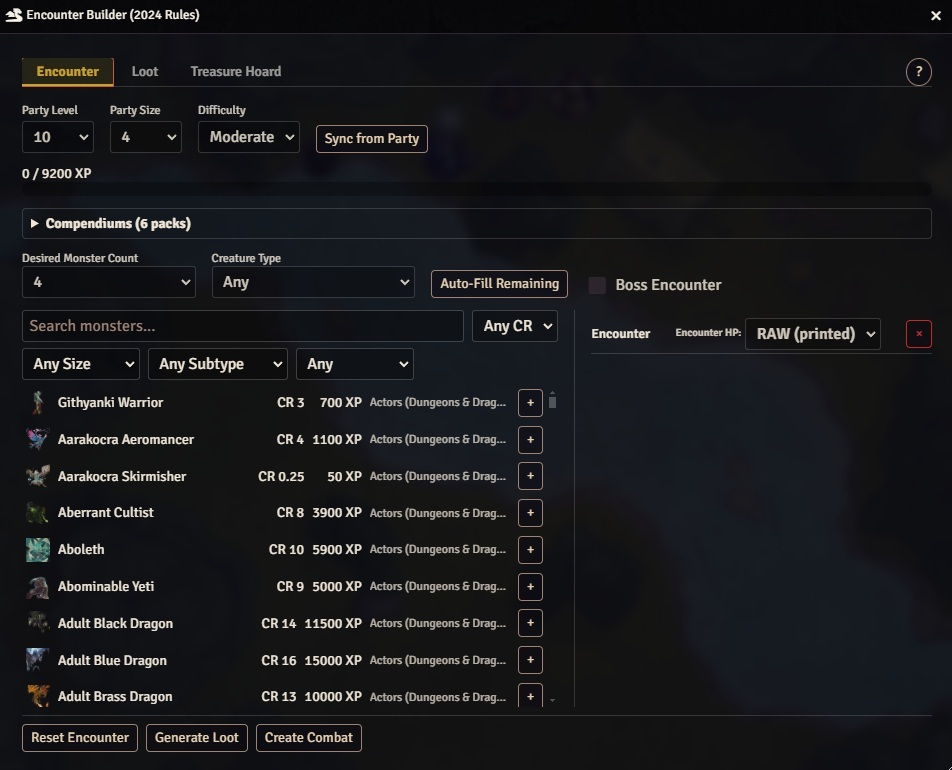
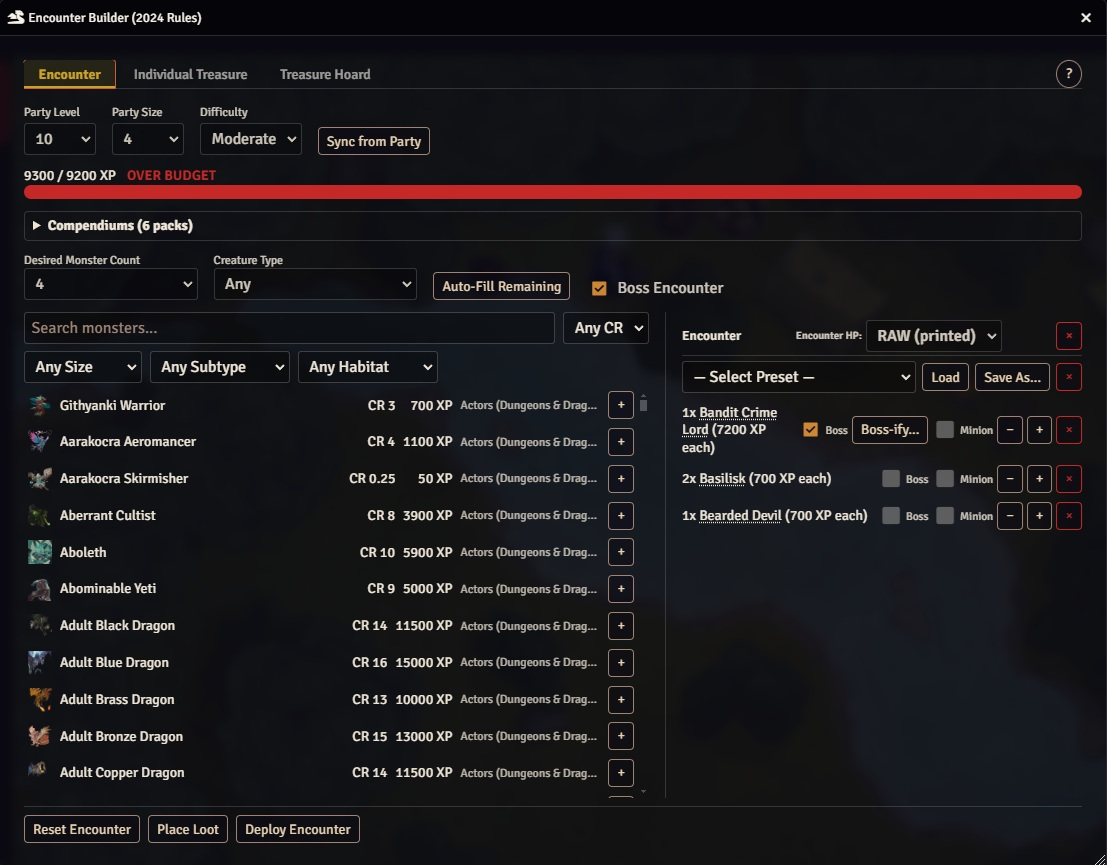
Bump version to 0.3.6, refresh screenshots, document new features
New screenshots reflecting the current UI (Boss-ify, item type filter,
item Customize dialog). README and module.json description updated for
Encounter Presets, the loot item type filter, and Item Customize; screenshot
CDN links re-pinned to the v0.3.6 tag.

diff --git a/README.md b/README.md
@@ -11,7 +11,7 @@ with a fully editable preview before creating anything.
 
 **Encounter tab**
 
-<img width="952" height="770" alt="Encounter Builder" src="https://cdn.jsdelivr.net/gh/ElmiMage/encounter-builder-2024@v0.3.5/screenshots/encounter-tab.jpg" />
+<img width="1107" height="865" alt="Encounter Builder" src="https://cdn.jsdelivr.net/gh/ElmiMage/encounter-builder-2024@v0.3.6/screenshots/encounter-tab.jpg" />
 
 - XP budget per 2024 DMG rules (Low/Moderate/High, no group multipliers)
 - Browse monsters from ANY loaded Actor compendium (SRD + your own homebrew)
@@ -52,10 +52,15 @@ with a fully editable preview before creating anything.
 - Click-to-place token spiral formation on the canvas
 - Creates a real Combat encounter when you're happy with the picks
 - Compendium selection is remembered per-user across sessions
+- **Encounter Presets**: save the current Party Level/Size/Difficulty, the
+  full monster list (including per-monster Boss-ify/Minion settings), and
+  the current Treasure Hoard plan (if one's been rolled) as a named,
+  world-shared preset — Save As… / Load / Delete, right above the
+  encounter list
 
-**Loot tab — Individual Treasure**
+**Individual Treasure tab**
 
-<img width="952" height="774" alt="Encounter Builder Loot" src="https://cdn.jsdelivr.net/gh/ElmiMage/encounter-builder-2024@v0.3.5/screenshots/loot-tab.jpg" />
+<img width="1102" height="864" alt="Encounter Builder Loot" src="https://cdn.jsdelivr.net/gh/ElmiMage/encounter-builder-2024@v0.3.6/screenshots/loot-tab.jpg" />
 
 - The 2024 DMG's smaller, separate "Individual Treasure" table: the
   incidental coin a single non-hoarding monster carries, as opposed to a
@@ -65,10 +70,18 @@ with a fully editable preview before creating anything.
   never rolls), fully editable afterward
 - Search + manually add specific items from your own compendiums, on top
   of or instead of the rolled coins
+- Filter the item browser by DMG-style category (Weapon, Armor, Ring, Rod,
+  Wand, Wondrous Item, and more) — also available on the Treasure Hoard tab
+- **Customize…**: turn any weapon or armor entry (rolled or manually
+  added) into a named magic find before it's materialized — custom name,
+  flat magic bonus, an extra damage type (weapons) or resistance type
+  (armor), and an auto-suggested rarity that scales with what you picked.
+  Homebrew, not an official DMG item generator — clearly flagged as such
+  in the dialog
 
 **Treasure Hoard tab**
 
-<img width="952" height="775" alt="Encounter Builder Loot Hoard" src="https://cdn.jsdelivr.net/gh/ElmiMage/encounter-builder-2024@v0.3.5/screenshots/treasure-hoard-tab.jpg" />
+<img width="1180" height="923" alt="Encounter Builder Loot Hoard" src="https://cdn.jsdelivr.net/gh/ElmiMage/encounter-builder-2024@v0.3.6/screenshots/treasure-hoard-tab.jpg" />
 
 - The 2024 DMG's detailed Treasure Hoard tables — coins, gems/art, and
   resolved magic items with real names, not a blind roll
